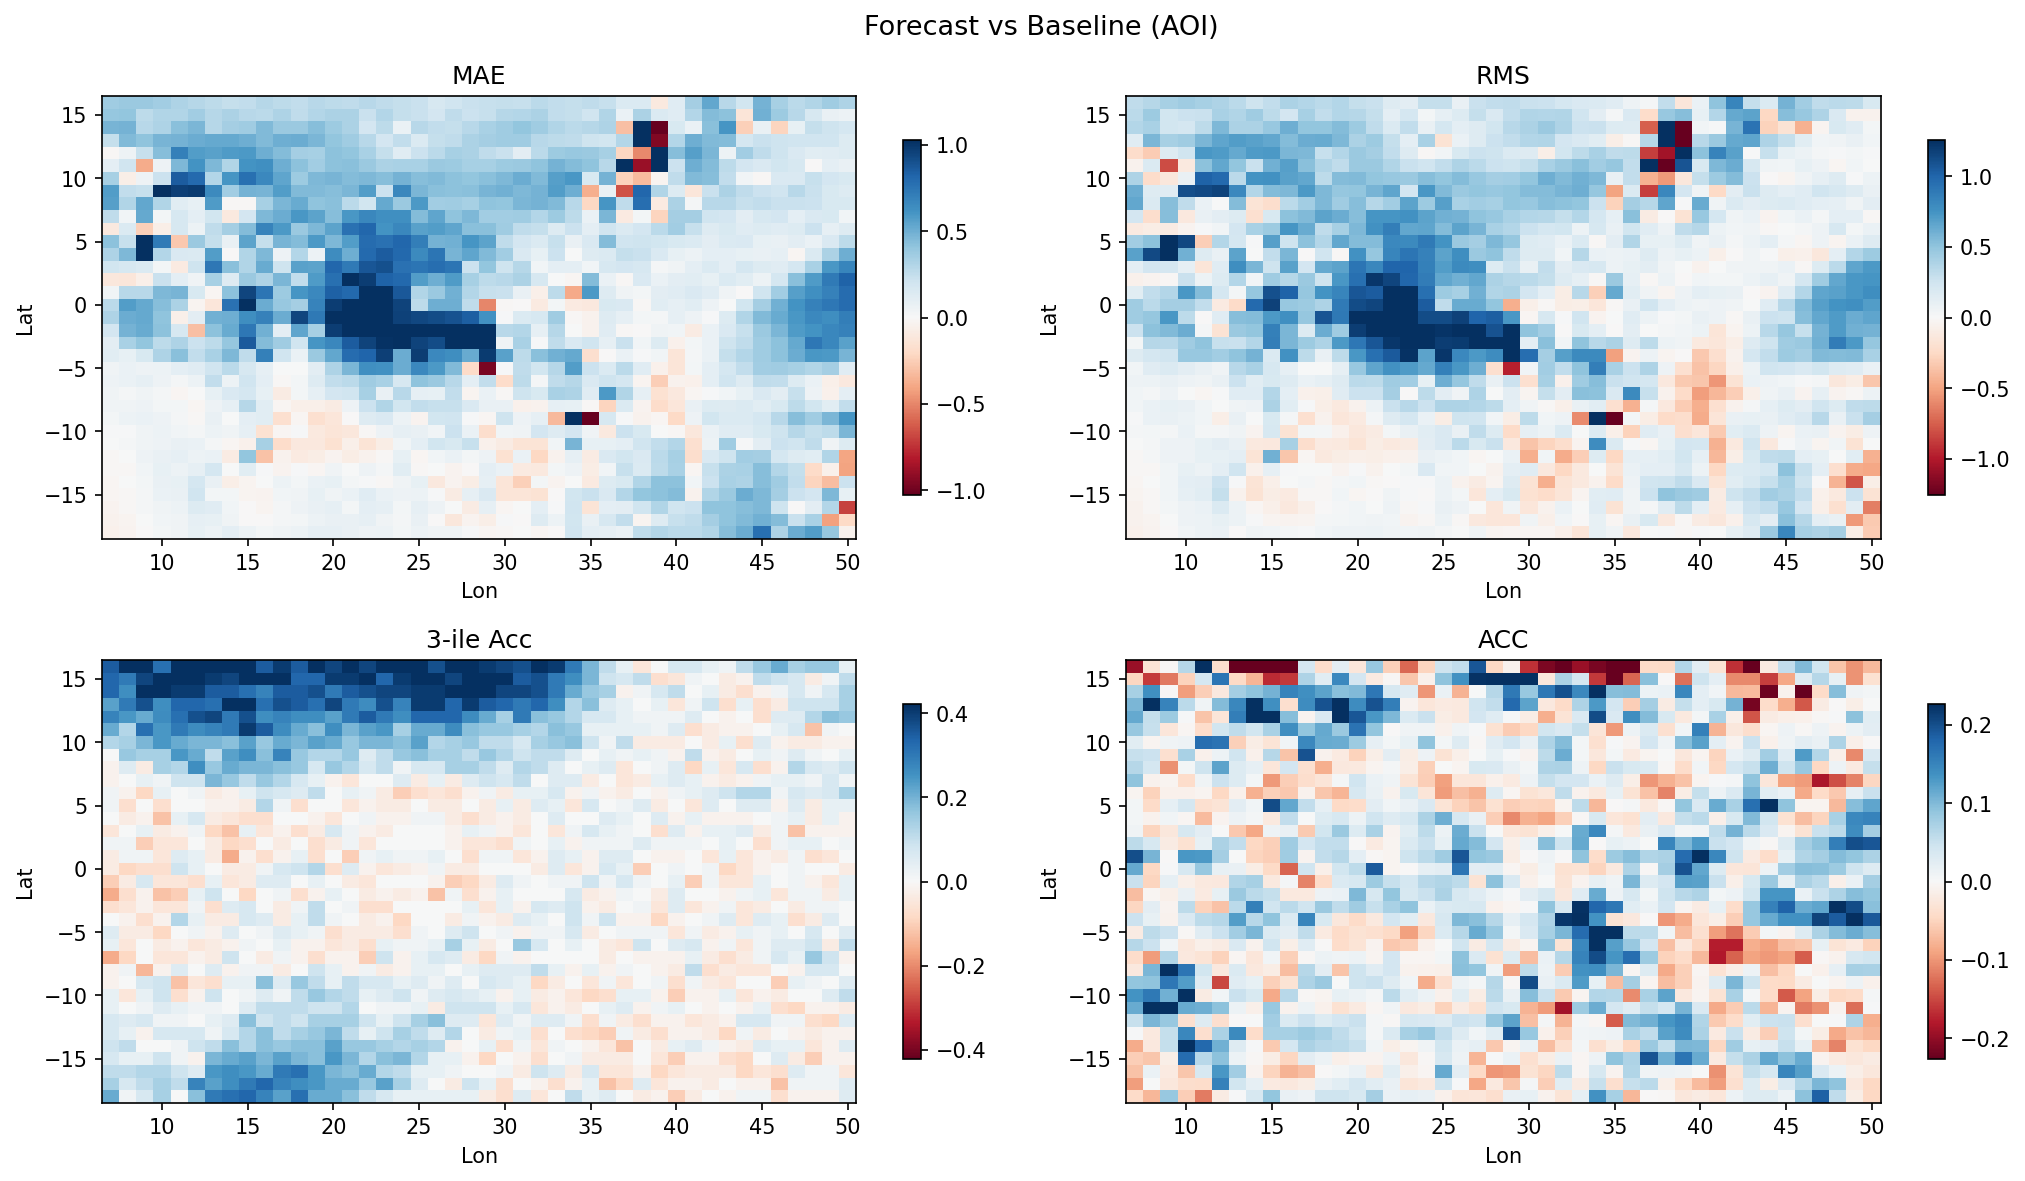
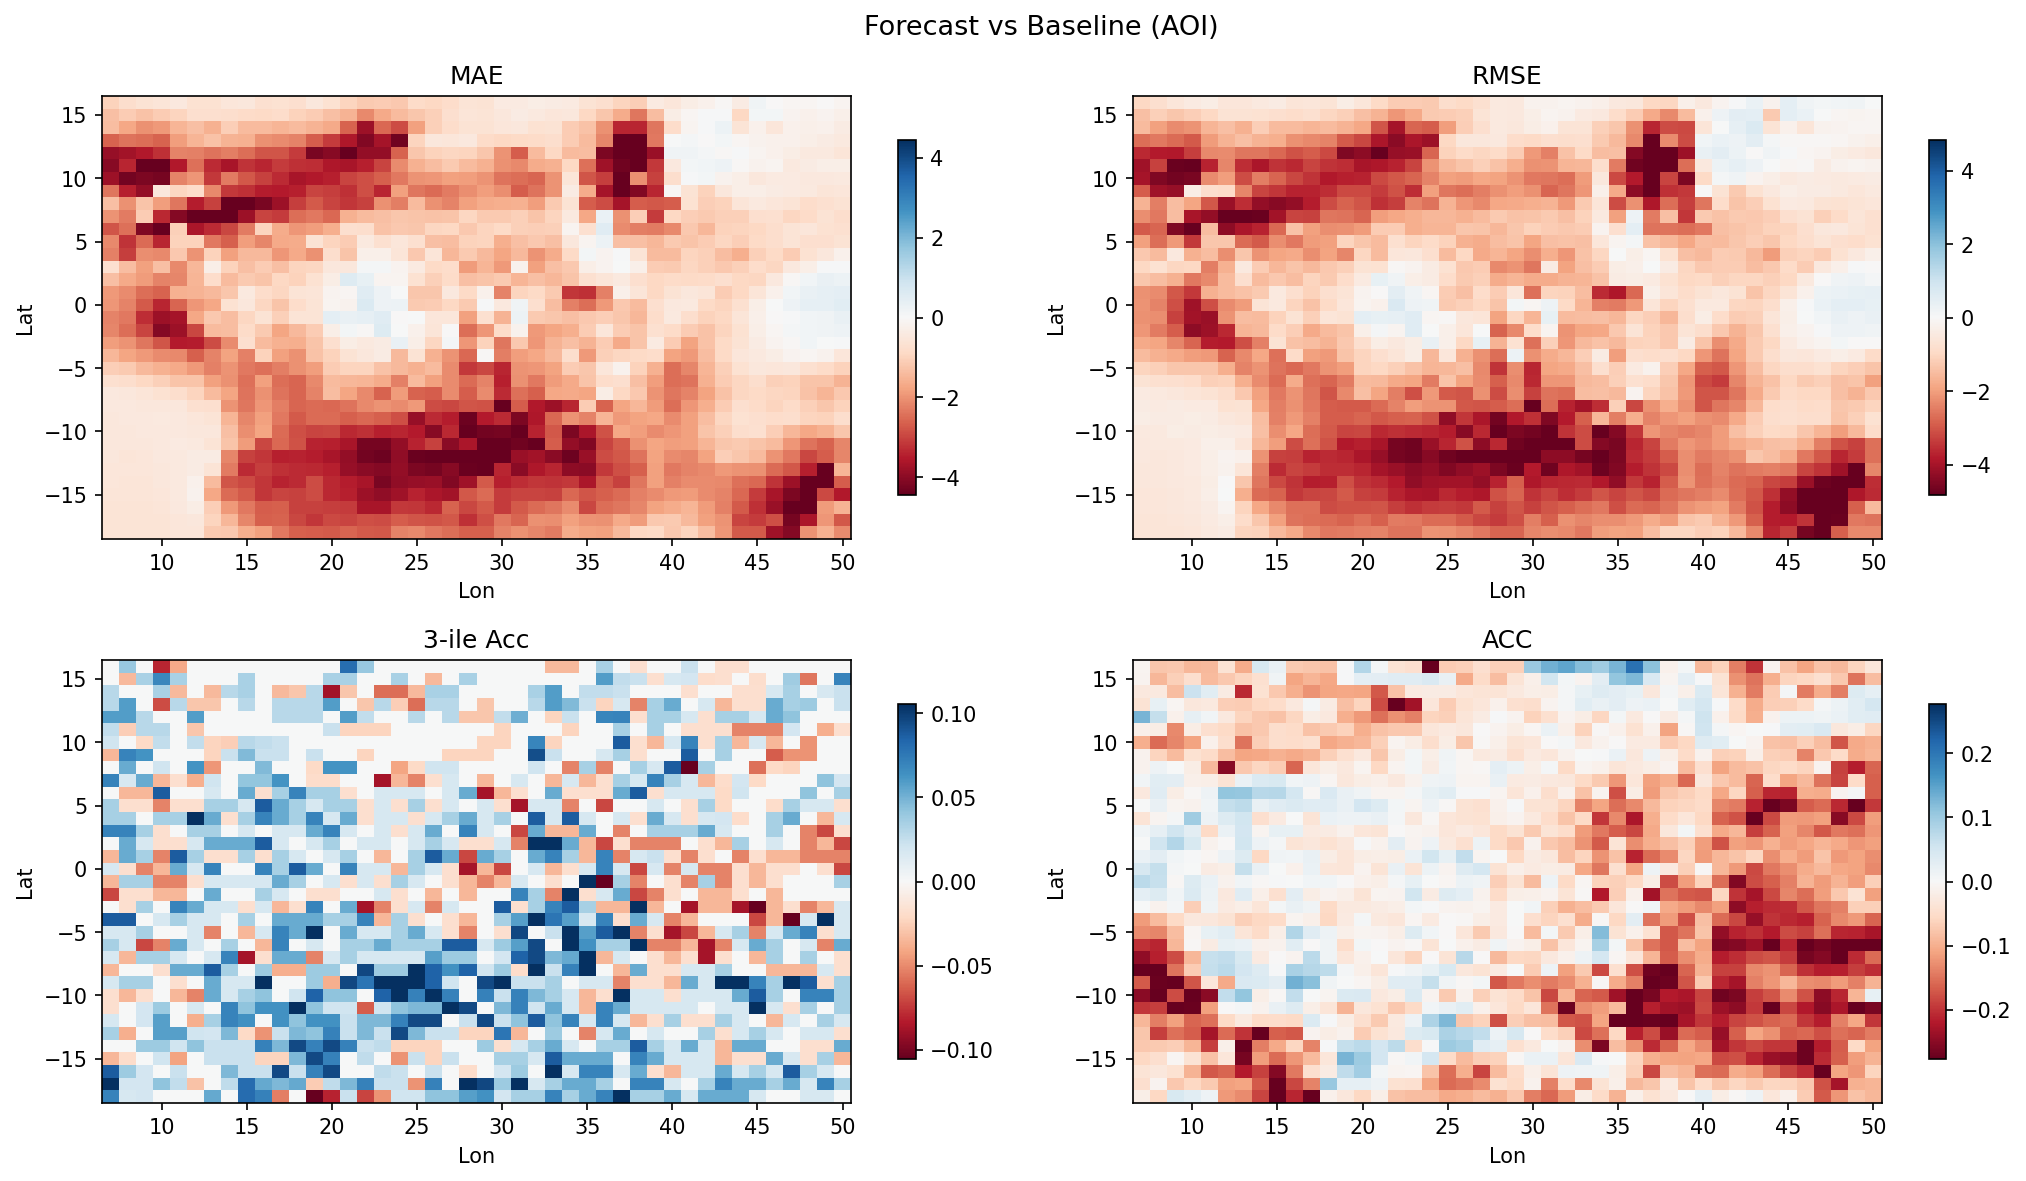
test emos model

diff --git a/analyse.py b/analyse.py
@@ -2,7 +2,7 @@
 Calculate:
 - MAE
 - RMSE
-- N-ile accuracy (accuracy for N %ile groups) per grid cell, month
+- N-ile accuracy per grid cell, month
 - ACC per grid cell, month
 """
 
@@ -11,9 +11,11 @@ import numpy as np
 import matplotlib.pyplot as plt
 from util import AOI_ONLY, Y_MIN, Y_MAX, X_MIN, X_MAX
 
-PRED_PATH = "data/test_predictions_aoi.nc" if AOI_ONLY else "data/test_predictions.nc"
-ds = xr.open_dataset(PRED_PATH)
 
+PRED_PATH = (
+    "data/emos_2016-01_to_2020-09.nc" if AOI_ONLY else "data/test_predictions.nc"
+)
+ds = xr.open_dataset(PRED_PATH)
 
 LEAD = 3
 TEST_INIT_START = 300
@@ -28,6 +30,12 @@ forecast_global = ds["forecast"].assign_coords(month=("time", VERIF_MONTHS))
 obs_global = ds["obs"].assign_coords(month=("time", VERIF_MONTHS))
 baseline_global = ds["baseline"].assign_coords(month=("time", VERIF_MONTHS))
 
+# Ignore anywhere the forecast prediction is NaN
+valid_global = np.isfinite(forecast_global)
+forecast_global = forecast_global.where(valid_global)
+obs_global = obs_global.where(valid_global)
+baseline_global = baseline_global.where(valid_global)
+
 forecast_aoi = forecast_global.sel(X=slice(X_MIN, X_MAX), Y=slice(Y_MIN, Y_MAX))
 obs_aoi = obs_global.sel(X=slice(X_MIN, X_MAX), Y=slice(Y_MIN, Y_MAX))
 baseline_aoi = baseline_global.sel(X=slice(X_MIN, X_MAX), Y=slice(Y_MIN, Y_MAX))
@@ -37,25 +45,43 @@ N = 3
 
 def nile_accuracy(forecast, obs, n):
     quantiles = np.linspace(0, 1, n + 1)
+
     o = obs.values
     f = forecast.values
     months = obs.month.values
 
-    o_bin = np.empty_like(o, dtype=int)
-    f_bin = np.empty_like(f, dtype=int)
+    o_bin = np.full(o.shape, -1, dtype=int)
+    f_bin = np.full(f.shape, -2, dtype=int)
 
     for m in range(12):
         idx = np.where(months == m)[0]
         if len(idx) == 0:
             continue
+
         o_m = o[idx]
         f_m = f[idx]
-        bins = np.quantile(o_m, quantiles, axis=0)
-        interior = bins[1:-1]
-        o_bin[idx] = (o_m[np.newaxis] > interior[:, np.newaxis]).sum(axis=0)
-        f_bin[idx] = (f_m[np.newaxis] > interior[:, np.newaxis]).sum(axis=0)
 
-    acc = (o_bin == f_bin).mean(axis=0)
+        valid = np.isfinite(o_m) & np.isfinite(f_m)
+
+        bins = np.nanquantile(o_m, quantiles, axis=0)
+        interior = bins[1:-1]
+
+        o_bin_m = (o_m[np.newaxis] > interior[:, np.newaxis]).sum(axis=0)
+        f_bin_m = (f_m[np.newaxis] > interior[:, np.newaxis]).sum(axis=0)
+
+        o_bin[idx] = np.where(valid, o_bin_m, -1)
+        f_bin[idx] = np.where(valid, f_bin_m, -2)
+
+    valid = np.isfinite(o) & np.isfinite(f)
+    correct = (o_bin == f_bin) & valid
+
+    valid_count = valid.sum(axis=0)
+
+    with np.errstate(divide="ignore", invalid="ignore"):
+        acc = correct.sum(axis=0) / valid_count
+
+    acc = np.where(valid_count > 0, acc, np.nan)
+
     return xr.DataArray(acc, dims=["Y", "X"], coords={"Y": obs.Y, "X": obs.X})
 
 
@@ -64,23 +90,25 @@ def eval_loss(mae, acc, nile_acc, alpha=0.4, beta=0.4, gamma=0.2):
 
 
 def evaluate(pred, obs, label):
-    mae = np.abs(pred - obs).mean("time")
-    rmse = np.sqrt(((pred - obs) ** 2).mean("time"))
+    mae = np.abs(pred - obs).mean("time", skipna=True)
+    rmse = np.sqrt(((pred - obs) ** 2).mean("time", skipna=True))
     nile_acc = nile_accuracy(pred, obs, N)
 
-    obs_clim = obs.groupby("month").mean("time")
+    obs_clim = obs.groupby("month").mean("time", skipna=True)
     obs_anom = obs.groupby("month") - obs_clim
+
     pred_anom = pred.groupby("month") - obs_clim
 
-    acc = (obs_anom * pred_anom).mean("time") / (
-        np.sqrt((obs_anom**2).mean("time")) * np.sqrt((pred_anom**2).mean("time"))
+    acc = (obs_anom * pred_anom).mean("time", skipna=True) / (
+        np.sqrt((obs_anom**2).mean("time", skipna=True))
+        * np.sqrt((pred_anom**2).mean("time", skipna=True))
     )
 
     print(f"\n--- {label} ---")
-    print(f"MAE:        {mae.values.mean():.4f}")
-    print(f"RMSE:       {rmse.values.mean():.4f}")
-    print(f"{N}-ile acc: {nile_acc.values.mean():.4f}")
-    print(f"ACC:        {acc.values.mean():.4f}")
+    print(f"MAE:        {np.nanmean(mae.values):.4f}")
+    print(f"RMSE:       {np.nanmean(rmse.values):.4f}")
+    print(f"{N}-ile acc: {np.nanmean(nile_acc.values):.4f}")
+    print(f"ACC:        {np.nanmean(acc.values):.4f}")
 
     return {"MAE": mae, "RMSE": rmse, f"{N}-ile Acc": nile_acc, "ACC": acc}
 
@@ -92,11 +120,14 @@ def plot_metrics(metrics, label, filename):
         f"{N}-ile Acc": ("RdYlGn", 0, 1),
         "ACC": ("RdYlGn", -1, 1),
     }
+
     fig, axes = plt.subplots(2, 2, figsize=(14, 8))
     fig.suptitle(label, fontsize=13)
+
     for ax, (name, da) in zip(axes.flat, metrics.items()):
         cmap, vmin, vmax = cmaps[name]
         vals = da.values
+
         im = ax.pcolormesh(
             da.X,
             da.Y,
@@ -105,10 +136,12 @@ def plot_metrics(metrics, label, filename):
             vmin=vmin if vmin is not None else np.nanpercentile(vals, 2),
             vmax=vmax if vmax is not None else np.nanpercentile(vals, 98),
         )
+
         ax.set_title(name)
         ax.set_xlabel("Lon")
         ax.set_ylabel("Lat")
         plt.colorbar(im, ax=ax, shrink=0.8)
+
     plt.tight_layout()
     plt.savefig(filename, dpi=150, bbox_inches="tight")
     plt.close()
@@ -116,23 +149,34 @@ def plot_metrics(metrics, label, filename):
 
 
 def plot_diff_metrics(fc_metrics, bl_metrics, label, filename):
-    # flip signs so that its consistent that smaller value = win for us
     diffs = {
         "MAE": bl_metrics["MAE"] - fc_metrics["MAE"],
-        "RMS": bl_metrics["RMSE"] - fc_metrics["RMSE"],
+        "RMSE": bl_metrics["RMSE"] - fc_metrics["RMSE"],
         f"{N}-ile Acc": fc_metrics[f"{N}-ile Acc"] - bl_metrics[f"{N}-ile Acc"],
         "ACC": fc_metrics["ACC"] - bl_metrics["ACC"],
     }
+
     fig, axes = plt.subplots(2, 2, figsize=(14, 8))
     fig.suptitle(label, fontsize=13)
+
     for ax, (name, da) in zip(axes.flat, diffs.items()):
         vals = da.values
         lim = np.nanpercentile(np.abs(vals), 98)
-        im = ax.pcolormesh(da.X, da.Y, vals, cmap="RdBu", vmin=-lim, vmax=lim)
+
+        im = ax.pcolormesh(
+            da.X,
+            da.Y,
+            vals,
+            cmap="RdBu",
+            vmin=-lim,
+            vmax=lim,
+        )
+
         ax.set_title(name)
         ax.set_xlabel("Lon")
         ax.set_ylabel("Lat")
         plt.colorbar(im, ax=ax, shrink=0.8)
+
     plt.tight_layout()
     plt.savefig(filename, dpi=150, bbox_inches="tight")
     plt.close()
@@ -144,23 +188,24 @@ if not AOI_ONLY:
     bl_metrics_global = evaluate(baseline_global, obs_global, "Baseline (global)")
 
     acc_n = (
-        fc_metrics_global["ACC"].values.mean()
-        * bl_metrics_global["MAE"].values.mean()
-        / bl_metrics_global["ACC"].values.mean()
+        np.nanmean(fc_metrics_global["ACC"].values)
+        * np.nanmean(bl_metrics_global["MAE"].values)
+        / np.nanmean(bl_metrics_global["ACC"].values)
     )
 
     nile_n = (
-        fc_metrics_global[f"{N}-ile Acc"].values.mean()
-        * bl_metrics_global["MAE"].values.mean()
-        / bl_metrics_global[f"{N}-ile Acc"].values.mean()
+        np.nanmean(fc_metrics_global[f"{N}-ile Acc"].values)
+        * np.nanmean(bl_metrics_global["MAE"].values)
+        / np.nanmean(bl_metrics_global[f"{N}-ile Acc"].values)
     )
 
-    eval_score = -eval_loss(fc_metrics_global["MAE"].values.mean(), acc_n, nile_n)
+    eval_score = -eval_loss(np.nanmean(fc_metrics_global["MAE"].values), acc_n, nile_n)
 
     print(f"Global hybrid score: {eval_score:10.4f}")
 
     plot_metrics(fc_metrics_global, "Forecast (global)", "plots/forecast_global.png")
     plot_metrics(bl_metrics_global, "Baseline (global)", "plots/baseline_global.png")
+
     plot_diff_metrics(
         fc_metrics_global,
         bl_metrics_global,
@@ -168,27 +213,32 @@ if not AOI_ONLY:
         "plots/diff_global.png",
     )
 
+
 fc_metrics_aoi = evaluate(forecast_aoi, obs_aoi, "Forecast (AOI)")
 bl_metrics_aoi = evaluate(baseline_aoi, obs_aoi, "Baseline (AOI)")
 
 acc_n = (
-    fc_metrics_aoi["ACC"].values.mean()
-    * bl_metrics_aoi["MAE"].values.mean()
-    / bl_metrics_aoi["ACC"].values.mean()
+    np.nanmean(fc_metrics_aoi["ACC"].values)
+    * np.nanmean(bl_metrics_aoi["MAE"].values)
+    / np.nanmean(bl_metrics_aoi["ACC"].values)
 )
 
 nile_n = (
-    fc_metrics_aoi[f"{N}-ile Acc"].values.mean()
-    * bl_metrics_aoi["MAE"].values.mean()
-    / bl_metrics_aoi[f"{N}-ile Acc"].values.mean()
+    np.nanmean(fc_metrics_aoi[f"{N}-ile Acc"].values)
+    * np.nanmean(bl_metrics_aoi["MAE"].values)
+    / np.nanmean(bl_metrics_aoi[f"{N}-ile Acc"].values)
 )
 
-eval_score = -eval_loss(fc_metrics_aoi["MAE"].values.mean(), acc_n, nile_n)
+eval_score = -eval_loss(np.nanmean(fc_metrics_aoi["MAE"].values), acc_n, nile_n)
 
 print(f"AOI hybrid score: {eval_score:10.4f}")
 
 plot_metrics(fc_metrics_aoi, "Forecast (AOI)", "plots/forecast_aoi.png")
 plot_metrics(bl_metrics_aoi, "Baseline (AOI)", "plots/baseline_aoi.png")
+
 plot_diff_metrics(
-    fc_metrics_aoi, bl_metrics_aoi, "Forecast vs Baseline (AOI)", "plots/diff_aoi.png"
+    fc_metrics_aoi,
+    bl_metrics_aoi,
+    "Forecast vs Baseline (AOI)",
+    "plots/diff_aoi.png",
 )

diff --git a/collect.py b/collect.py
@@ -1,0 +1,81 @@
+from pathlib import Path
+import re
+import pandas as pd
+import xarray as xr
+
+IN_DIR = Path("preds/precipitation_emos_v01")
+OUT = Path("data/emos_2016-01_to_2020-09.nc")
+
+START = "2016-01-01"
+END = "2020-09-01"
+
+
+def get_ic_date(path: Path) -> pd.Timestamp:
+    m = re.search(r"ic-(\d{4}-\d{2}-\d{2})", path.name)
+    if not m:
+        raise ValueError(f"Could not parse init date from {path.name}")
+    return pd.Timestamp(m.group(1))
+
+
+pieces = []
+
+for path in sorted(
+    IN_DIR.glob("nmme_ensemble_precipitation_mon_ic-*_leads-7_c-afr_emos-v01.nc")
+):
+    ic = get_ic_date(path)
+
+    ds = xr.open_dataset(path)
+
+    ds = ds.sortby("Y")
+
+    da = ds["pred_mean"].sel(L=3.0)
+
+    time = ic + pd.DateOffset(months=3)
+
+    da = da.expand_dims(time=[time])
+    da = da.rename("forecast")
+
+    pieces.append(da)
+
+forecast = xr.concat(pieces, dim="time")
+forecast = forecast.sortby("time")
+
+forecast = forecast.sel(time=slice(START, END))
+
+time_index = pd.Index(forecast.time.values)
+keep = ~time_index.duplicated(keep="first")
+forecast = forecast.isel(time=keep)
+
+out = xr.Dataset({"forecast": forecast})
+
+ref = xr.open_dataset("data/test_predictions_aoi.nc")
+
+ref = ref.sortby("Y")
+
+out["obs"] = (
+    ref["obs"]
+    .isel(time=slice(0, len(out.time)))
+    .assign_coords(
+        time=out.time,
+        Y=out.Y,
+        X=out.X,
+    )
+)
+
+out["baseline"] = (
+    ref["baseline"]
+    .isel(time=slice(0, len(out.time)))
+    .assign_coords(
+        time=out.time,
+        Y=out.Y,
+        X=out.X,
+    )
+)
+
+out = out.transpose("time", "Y", "X")
+
+out.to_netcdf(OUT)
+
+print(ref)
+print(out)
+print(f"saved to {OUT}")

diff --git a/investigate.py b/investigate.py
@@ -1,0 +1,10 @@
+import xarray as xr
+
+ds1 = xr.open_dataset(
+    "preds/precipitation_emos_v01/nmme_ensemble_precipitation_mon_ic-2020-12-01_leads-7_c-afr_emos-v01.nc"
+)
+
+ds2 = xr.open_dataset("data/test_predictions_aoi.nc")
+
+print(ds1)
+print(ds2)